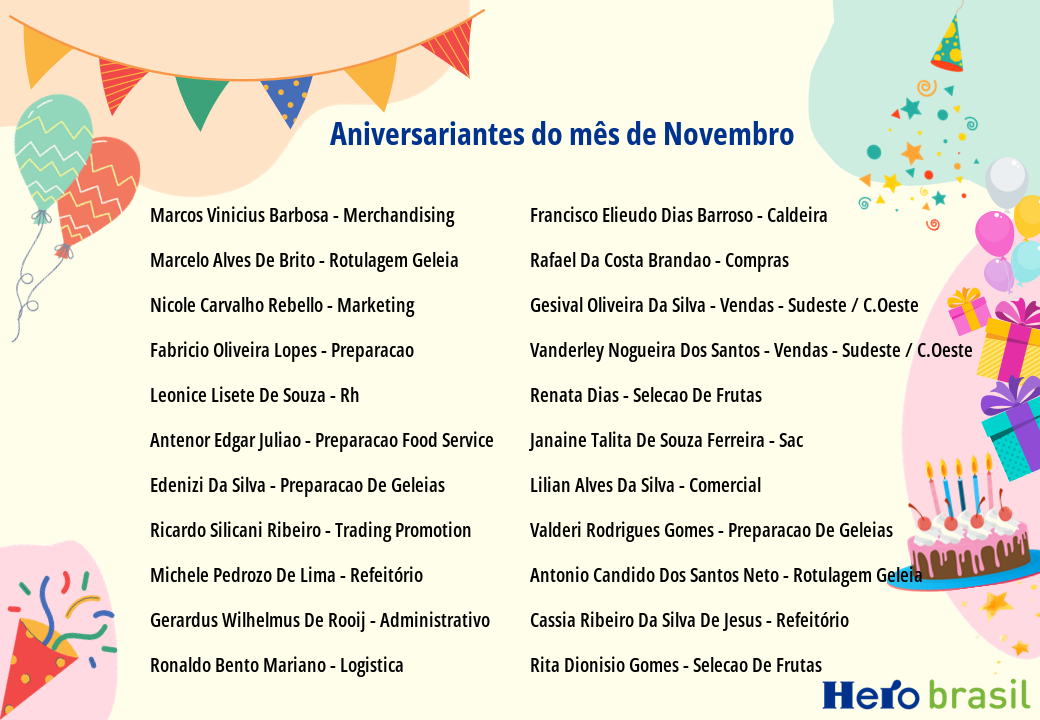
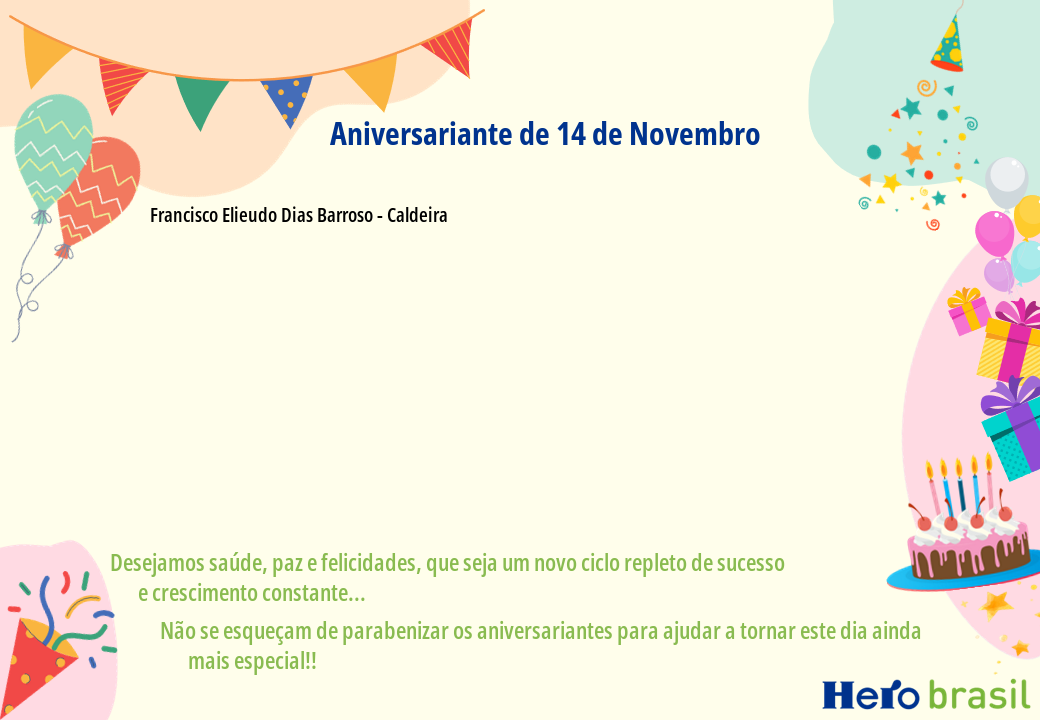
Creating the logic to create a image with the birthdays of day, weekend and month

diff --git a/main.py b/main.py
@@ -1,31 +1,48 @@
-from database.consults import month_birthday
+from database.consults import month_birthday, weekend_birthday, day_birthday
 from datetime import datetime
 from images.draw_image import birthdays_image
 
 TODAY = datetime.today()
+GREETINGS = "Desejamos saúde, paz e felicidades, que seja um novo ciclo repleto de sucesso\n\t\te crescimento constante..."
+GREETINGS2 = "Não se esqueçam de parabenizar os aniversariantes para ajudar a tornar este dia ainda\n\t\tmais especial!!"
 
 
-def month_niver():
+def data_to_image(dict_birthdays: dict, messages: str, **kwargs):
 
-    title_text = ""
+    if len(dict_birthdays) > 0:
 
-    if TODAY.day == 13:
+        if len(dict_birthdays) >= 2:
+            title_text = "Aniversariantes"
+        else:
+            title_text = "Aniversariante"
 
-        birthdays_of_the_month = month_birthday()
+        title_text += messages
 
-        if len(birthdays_of_the_month) > 0:
-
-            if len(birthdays_of_the_month) >= 2:
-                title_text = "Aniversariantes"
-            else:
-                title_text = "Aniversariante"
-
-            title_text = title_text + " do mês de " + TODAY.strftime("%B").title()
-
-            # greatings = "Desejamos saúde, paz e felicidades, que seja um novo ciclo repleto de sucesso\n\t\te crescimento constante..."
-            # greatings2 = "Não se esqueçam de parabenizar os aniversariantes para ajudar a tornar este dia ainda\n\t\tmais especial!!"
-
-            birthdays_image(title=title_text, dict_birthdays=birthdays_of_the_month)
+        birthdays_image(title=title_text, dict_birthdays=dict_birthdays, greetings=kwargs.get("greetings"), greetings2=kwargs.get("greetings2"))
 
 
-month_niver()
+# Day birthday
+if len(day_birthday()) > 0:
+
+    if TODAY.day < 10:
+        day = f"0{TODAY.day}"
+    else:
+        day = TODAY.day
+
+    message = f" de {day} de {TODAY.strftime('%B').title()}"
+
+    data_to_image(day_birthday(), message, greetings=GREETINGS, greetings2=GREETINGS2)
+
+# Month birthdays
+if TODAY.day == 1:
+
+    message = " do mês de " + TODAY.strftime("%B").title()
+
+    data_to_image(month_birthday(), message)
+
+# Weekend birthdays
+if TODAY.weekday() == 4:
+
+    message = " do fim de semana"
+
+    data_to_image(weekend_birthday(), message, greetings=GREETINGS, greetings2=GREETINGS2)

diff --git a/images/draw_image.py b/images/draw_image.py
@@ -8,8 +8,8 @@ locale.setlocale(locale.LC_ALL, "pt_BR.utf8")
 def birthdays_image(**kwargs):
 
     title = kwargs.get("title")
-    greatings = kwargs.get("greatings")
-    greatings2 = kwargs.get("grearings2")
+    greetings = kwargs.get("greetings")
+    greetings2 = kwargs.get("greetings2")
 
     count = 0
     pos_y = 200
@@ -40,13 +40,9 @@ def birthdays_image(**kwargs):
 
     draw.text(xy=(330, 110), text=title, fill=(0, 51, 142), font=font_title)
 
-    if greatings and greatings2 != "":
-        draw.text(xy=(110, 545), text=greatings, fill=(137, 187, 80), font=font_greatings)
-        draw.text(xy=(160, 613), text=greatings2, fill=(137, 187, 80), font=font_greatings)
+    if greetings and greetings2 != "":
+
+        draw.text(xy=(110, 545), text=greetings, fill=(137, 187, 80), font=font_greatings)
+        draw.text(xy=(160, 613), text=greetings2, fill=(137, 187, 80), font=font_greatings)
 
     img.save("images/img_aniversariantes.png")
-
-
-if __name__ == "__main__":
-
-    birthdays_image(title="Teste02")

diff --git a/database/consults.py b/database/consults.py
@@ -13,7 +13,7 @@ def all_employees():
     return consults_manager(sql)
 
 
-def day_birthday():
+def day_birthday() -> dict:
 
     all_people = all_employees()
     birthdays_employees = {}
@@ -30,13 +30,13 @@ def day_birthday():
     return birthdays_employees
 
 
-def weekend_birthday():
+def weekend_birthday() -> dict:
 
     all_people = all_employees()
     birthdays_employees = {}
     today = datetime.today()
 
-    if today == 4:
+    if today.weekday() == 4:
 
         saturday = today + timedelta(days=1)
         sunday = today + timedelta(days=2)
@@ -53,7 +53,7 @@ def weekend_birthday():
         return birthdays_employees
 
 
-def month_birthday():
+def month_birthday() -> dict:
 
     all_people = all_employees()
     birthdays_employees = {}

diff --git a/database/conect.py b/database/conect.py
@@ -7,6 +7,6 @@ ENGINE = sqlalchemy.create_engine(f"oracle+cx_oracle://{secret_keys.DATABASE_USE
                                   arraysize=1000)
 
 
-def consults_manager(sql):
+def consults_manager(sql) -> pandas.DataFrame:
 
     return pandas.read_sql(sql, ENGINE)
